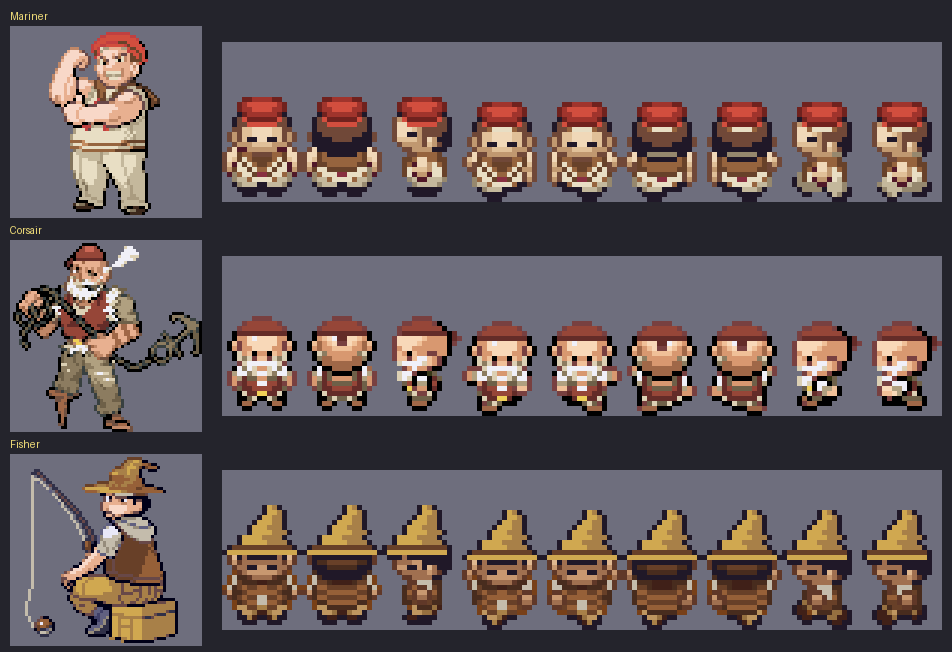
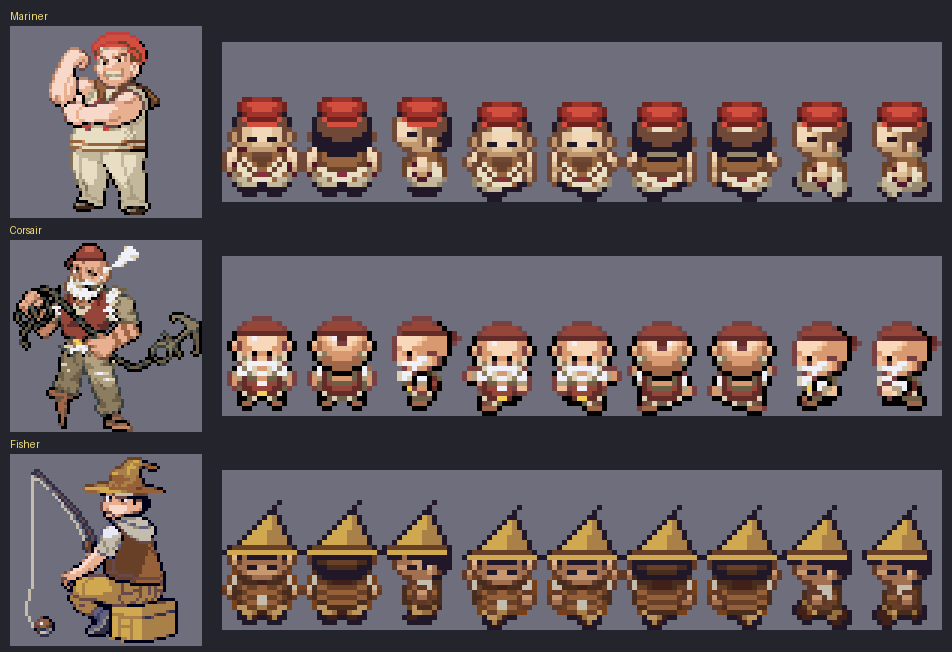
Fisher walker: the pointed hat closes to a bent tip
Claude-Session: https://claude.ai/code/session_01FHXnfqnedTHLf5QFbB3MCU

diff --git a/tools/npc/walkers/seafolk.py b/tools/npc/walkers/seafolk.py
@@ -134,21 +134,26 @@ def fisher():
             sub[brim - 1, x] = DARK
         sub[brim - 1, x0] = O
         sub[brim - 1, x1] = O
-        w = x1 - x0 - 1                                           # the crown: one narrower a row, leaning back
-        for k in range(1, 9):
-            ww = max(2, w - k)
-            cx0 = x0 + 1 + (k + 1) // 2 + k // 3
-            cx1 = min(15, cx0 + ww - 1)
-            y = brim - 1 - k
-            if y < 0:
+        # the crown (user 2026-11-25: the first version "looks like you cut it off at the very tip"): even edges, the
+        # left stepping in a pixel every row and the right every other row (it leans back), closing to a one-pixel
+        # outlined tip that bends over one more pixel, as the crooked tip of his front's hat
+        left, right = x0 + 2, x1 - 1
+        y = brim - 2
+        k = 0
+        while y >= 0:
+            l, r = left + k, right - k // 2
+            if r - l + 1 <= 1:
+                sub[y, min(15, l)] = O                            # the point
+                if y - 1 >= 0 and l + 1 <= 15:
+                    sub[y - 1, l + 1] = O                         # bent over
                 break
-            for x in range(cx0, cx1 + 1):
-                if ww <= 2 or x in (cx0, cx1):
+            for x in range(l, r + 1):
+                if r - l + 1 <= 2 or x in (l, r):
                     sub[y, x] = O
                 else:
-                    sub[y, x] = LIGHT if x - cx0 < ww / 2 else MID
-            if ww <= 2:
-                break
+                    sub[y, x] = LIGHT if x - l < (r - l + 1) / 2 else MID
+            y -= 1
+            k += 1
     pal = list(pal)
     pal[11], pal[12] = (208, 168, 80), (168, 128, 72)             # the felt
     pal[8], pal[9], pal[10] = (150, 96, 56), (104, 64, 40), (72, 44, 30)    # the jerkin's leather

diff --git a/docs/chapter1_workflow.md b/docs/chapter1_workflow.md
@@ -355,3 +355,7 @@ Once the next few phases of Chapter 1 are further along, the user wants **anothe
   a pixel wider than his head, a dark band, the crown one narrower a row and leaning back), black hair under the brim,
   the red jacket a leather jerkin, the white an undyed wool hood, the yellows tan breeches. The Corsair stays
   MonoMyth 45. `tools/npc/walkers/seafolk.py`, `assets/npc_survey/seafolk_walkers_v2.png`.
+  The Fisher's hat redrawn (user: "looks like you cut it off at the very tip"; the crown had stopped at a 4-pixel row
+  with no outline above it): even edges (the left stepping in every row, the right every other row, so it leans
+  back), closing to a one-pixel outlined point that bends over a pixel like his front's crooked tip.
+  `assets/npc_survey/fisher_walker_hat_v3.png`.
